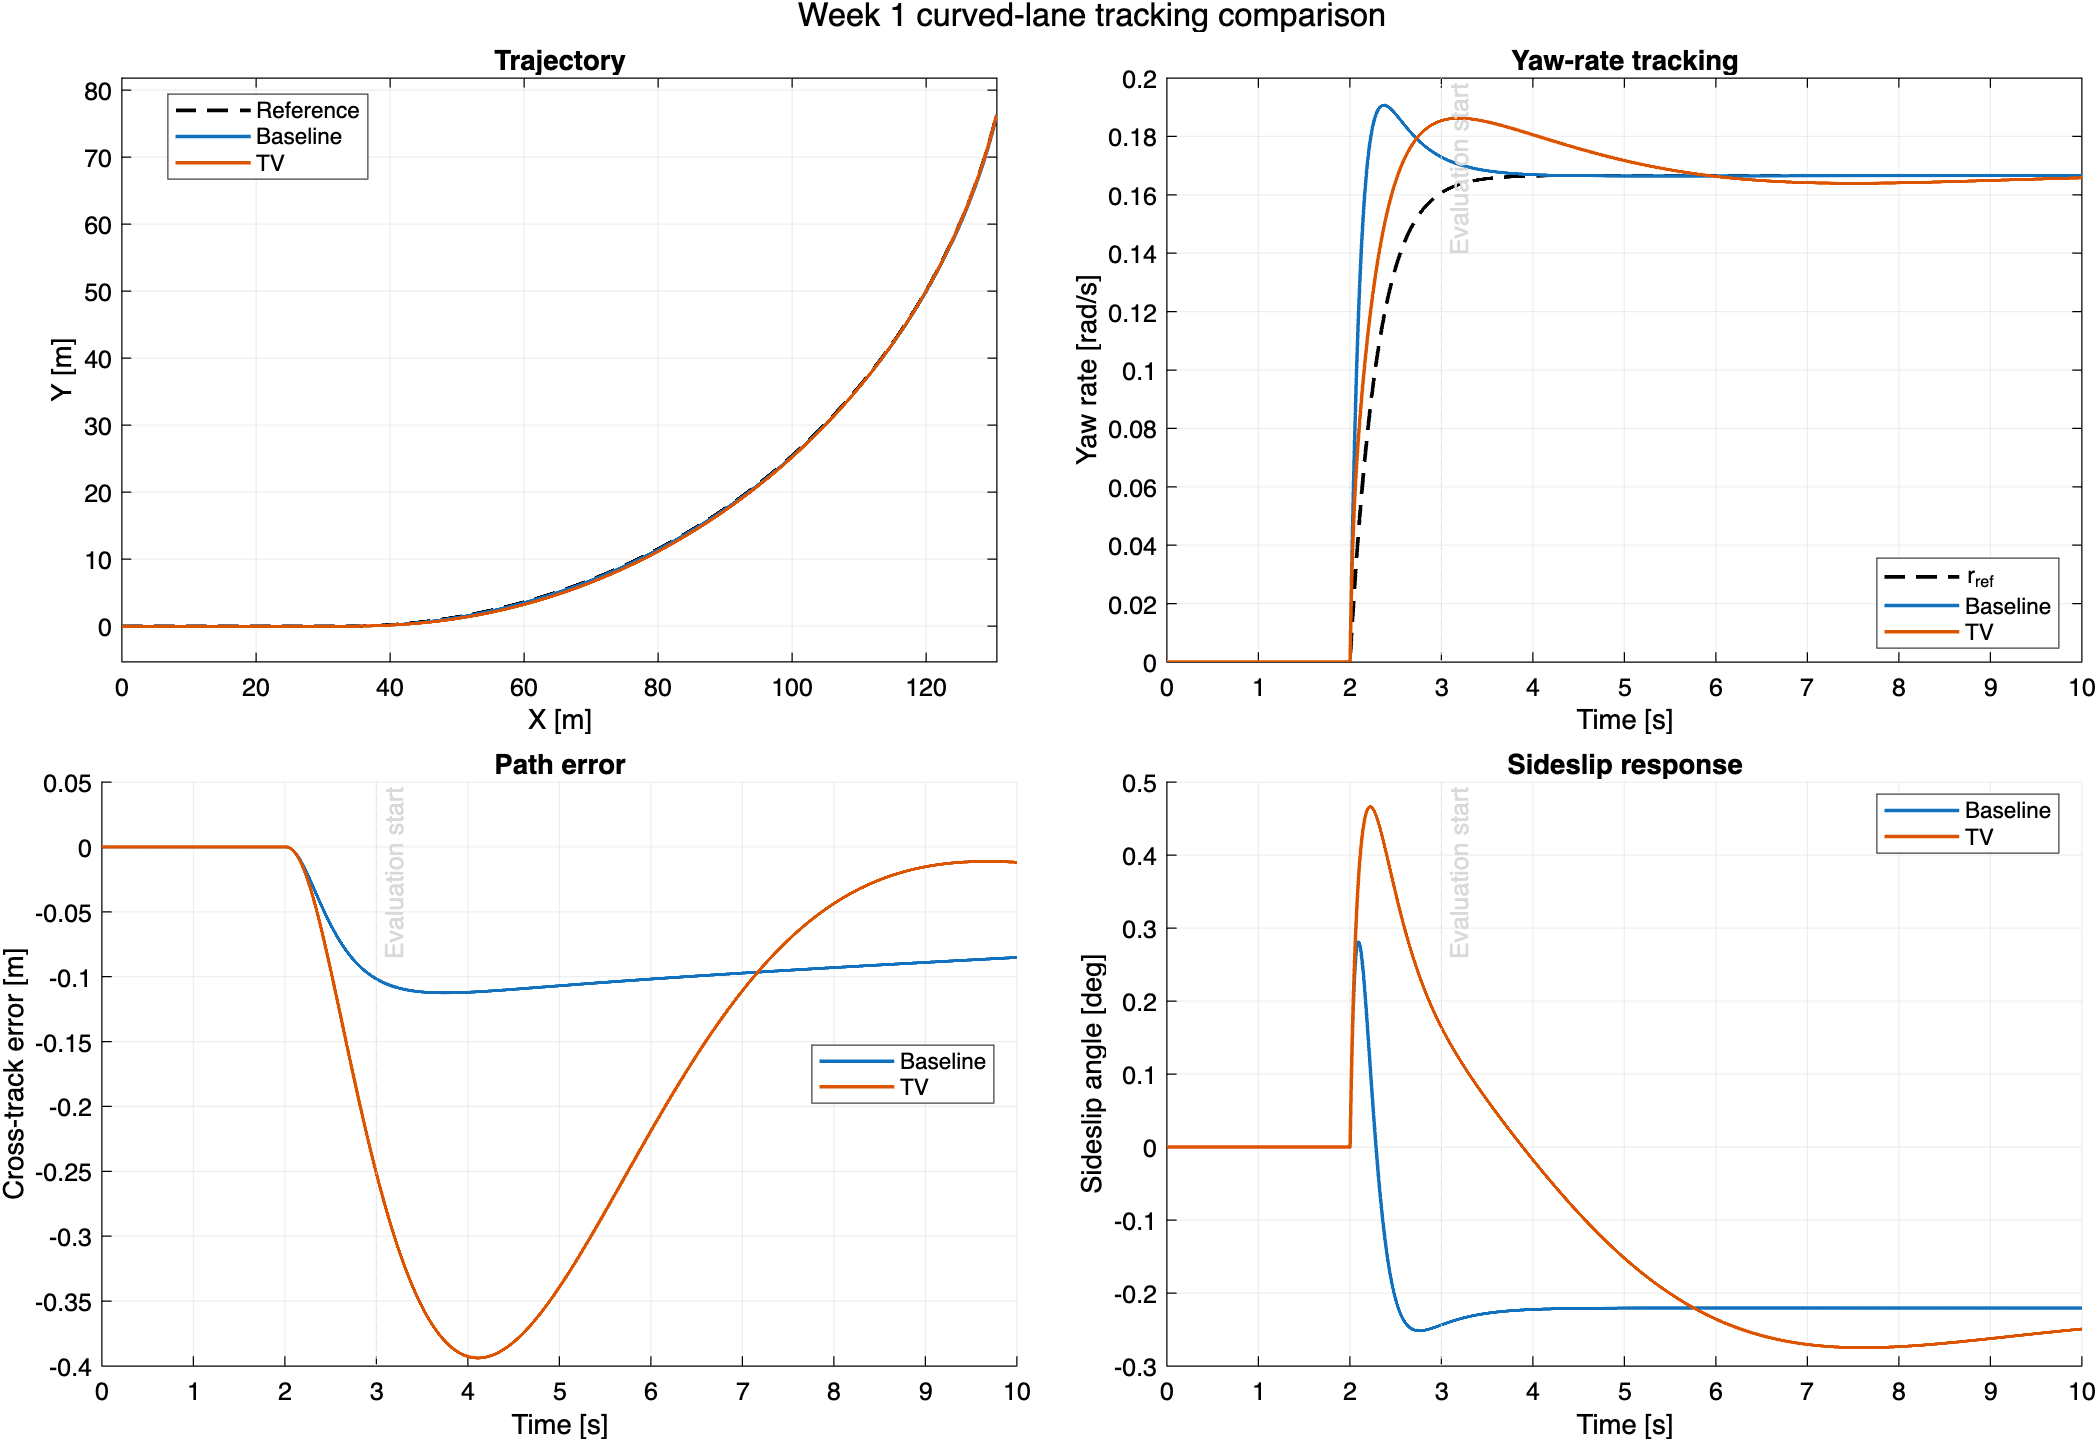
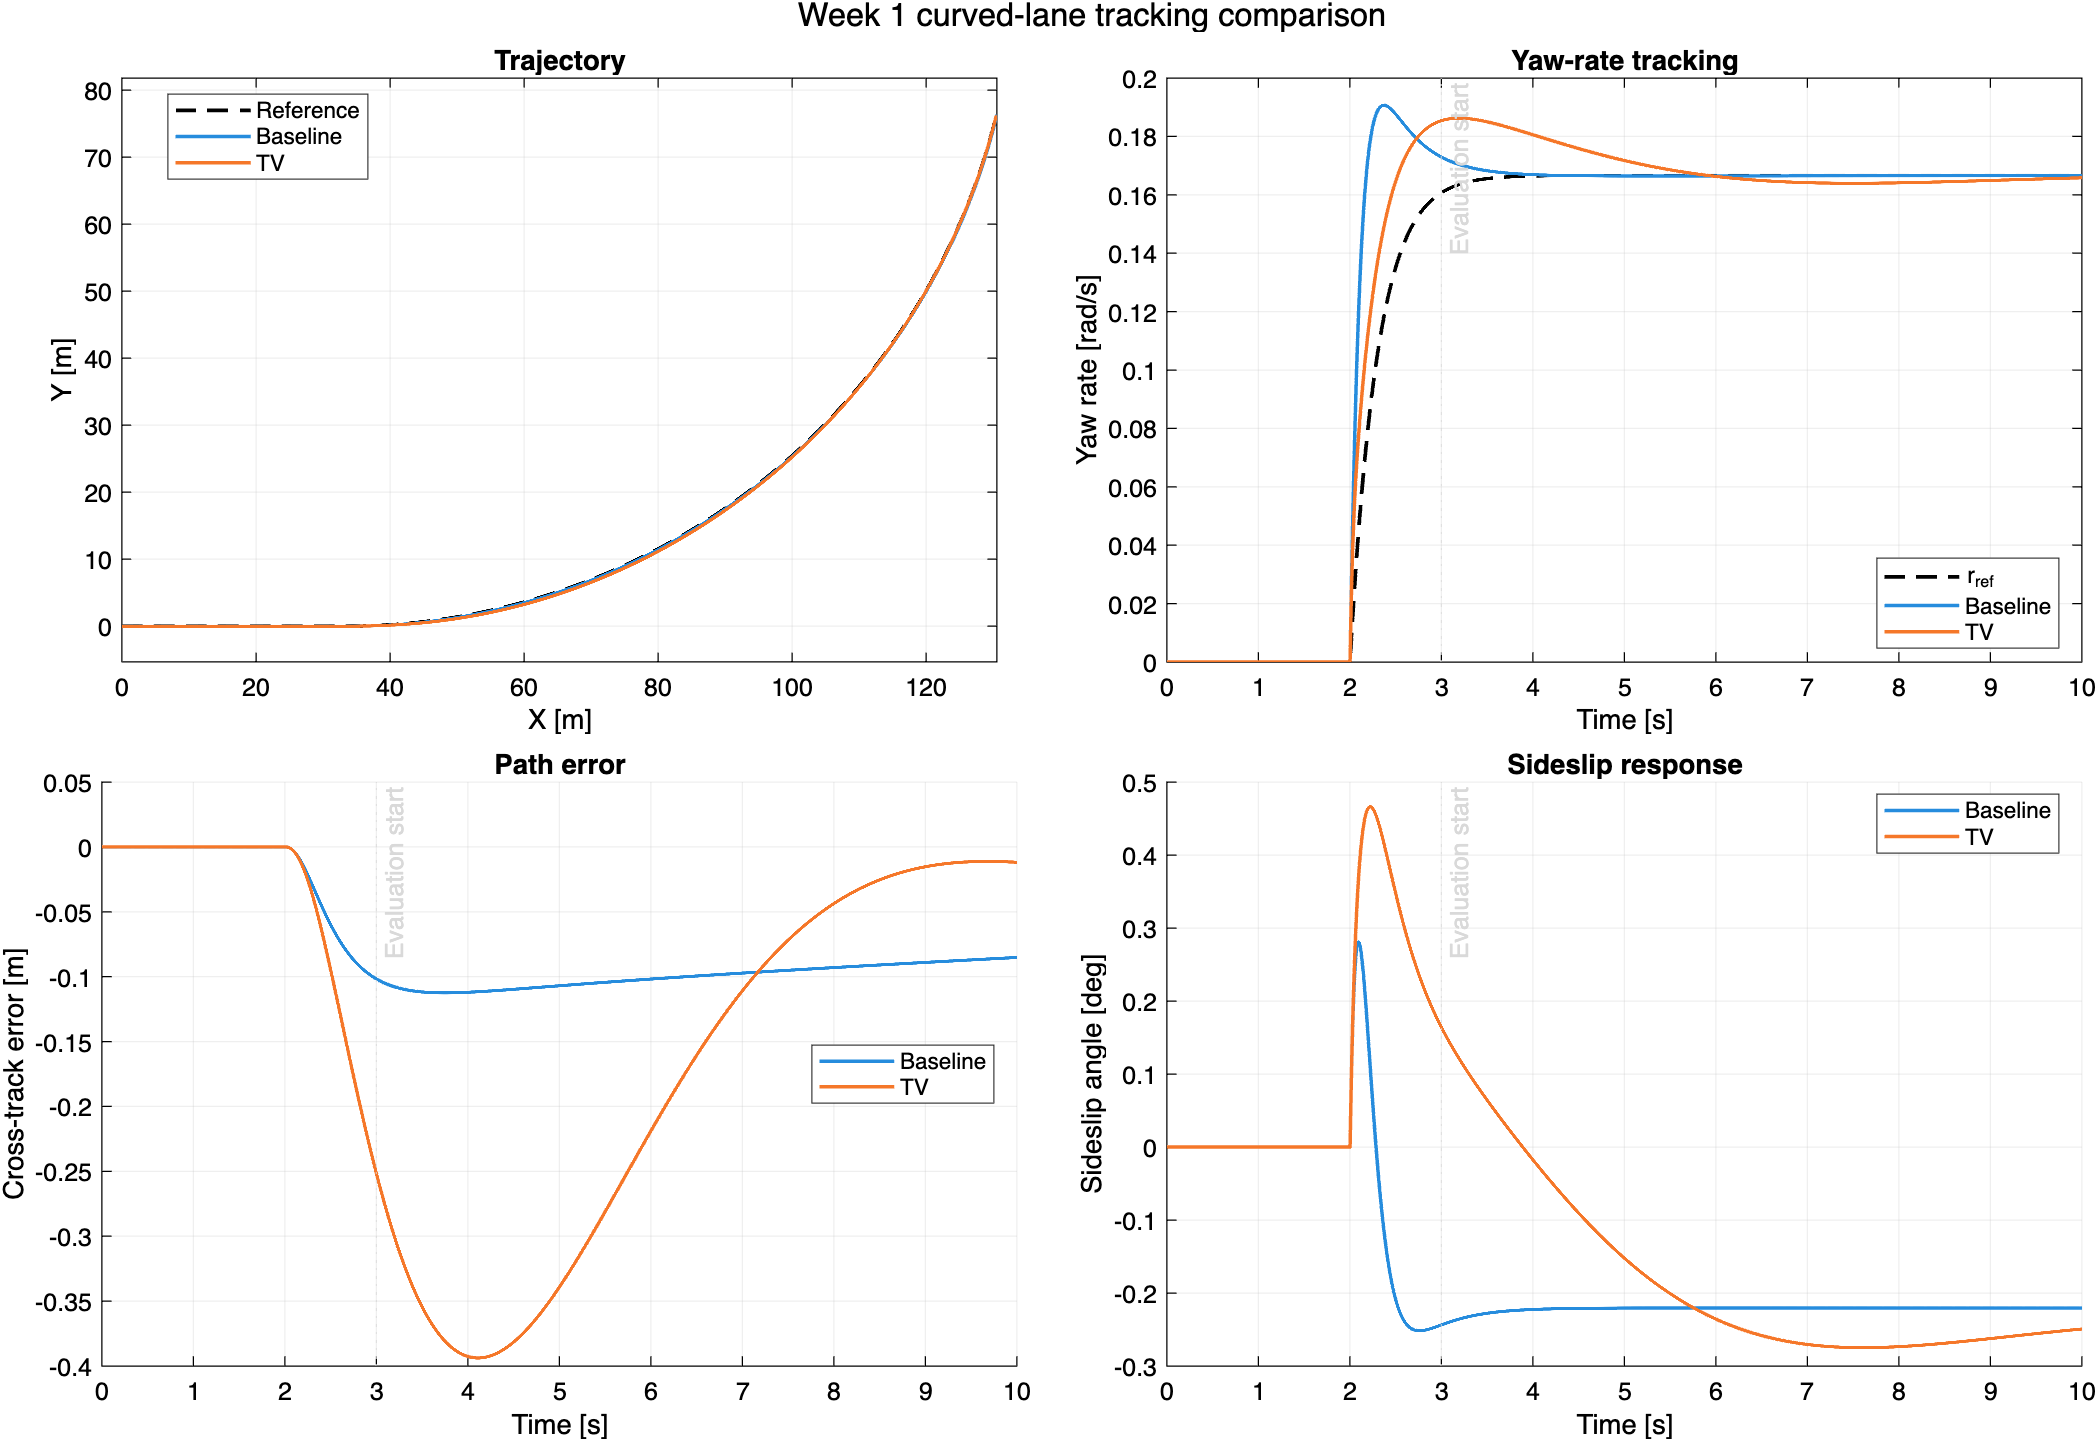
.

diff --git a/README.md b/README.md
@@ -135,16 +135,6 @@ tables are replaced by a curvature-based reference and an analytical
 E-Class bicycle-model feedforward calculation. The fixed yaw-moment limit
 and anti-windup realization are also explicit project assumptions.
 
-To regenerate the controller model from its documented source script:
-
-```matlab
-setupProject
-buildTVController
-```
-
-This command overwrites `models/controllers/TV.slx` with the reproducible
-implementation.
-
 ## Model interfaces
 
 Every controller augmentation uses the same interface: